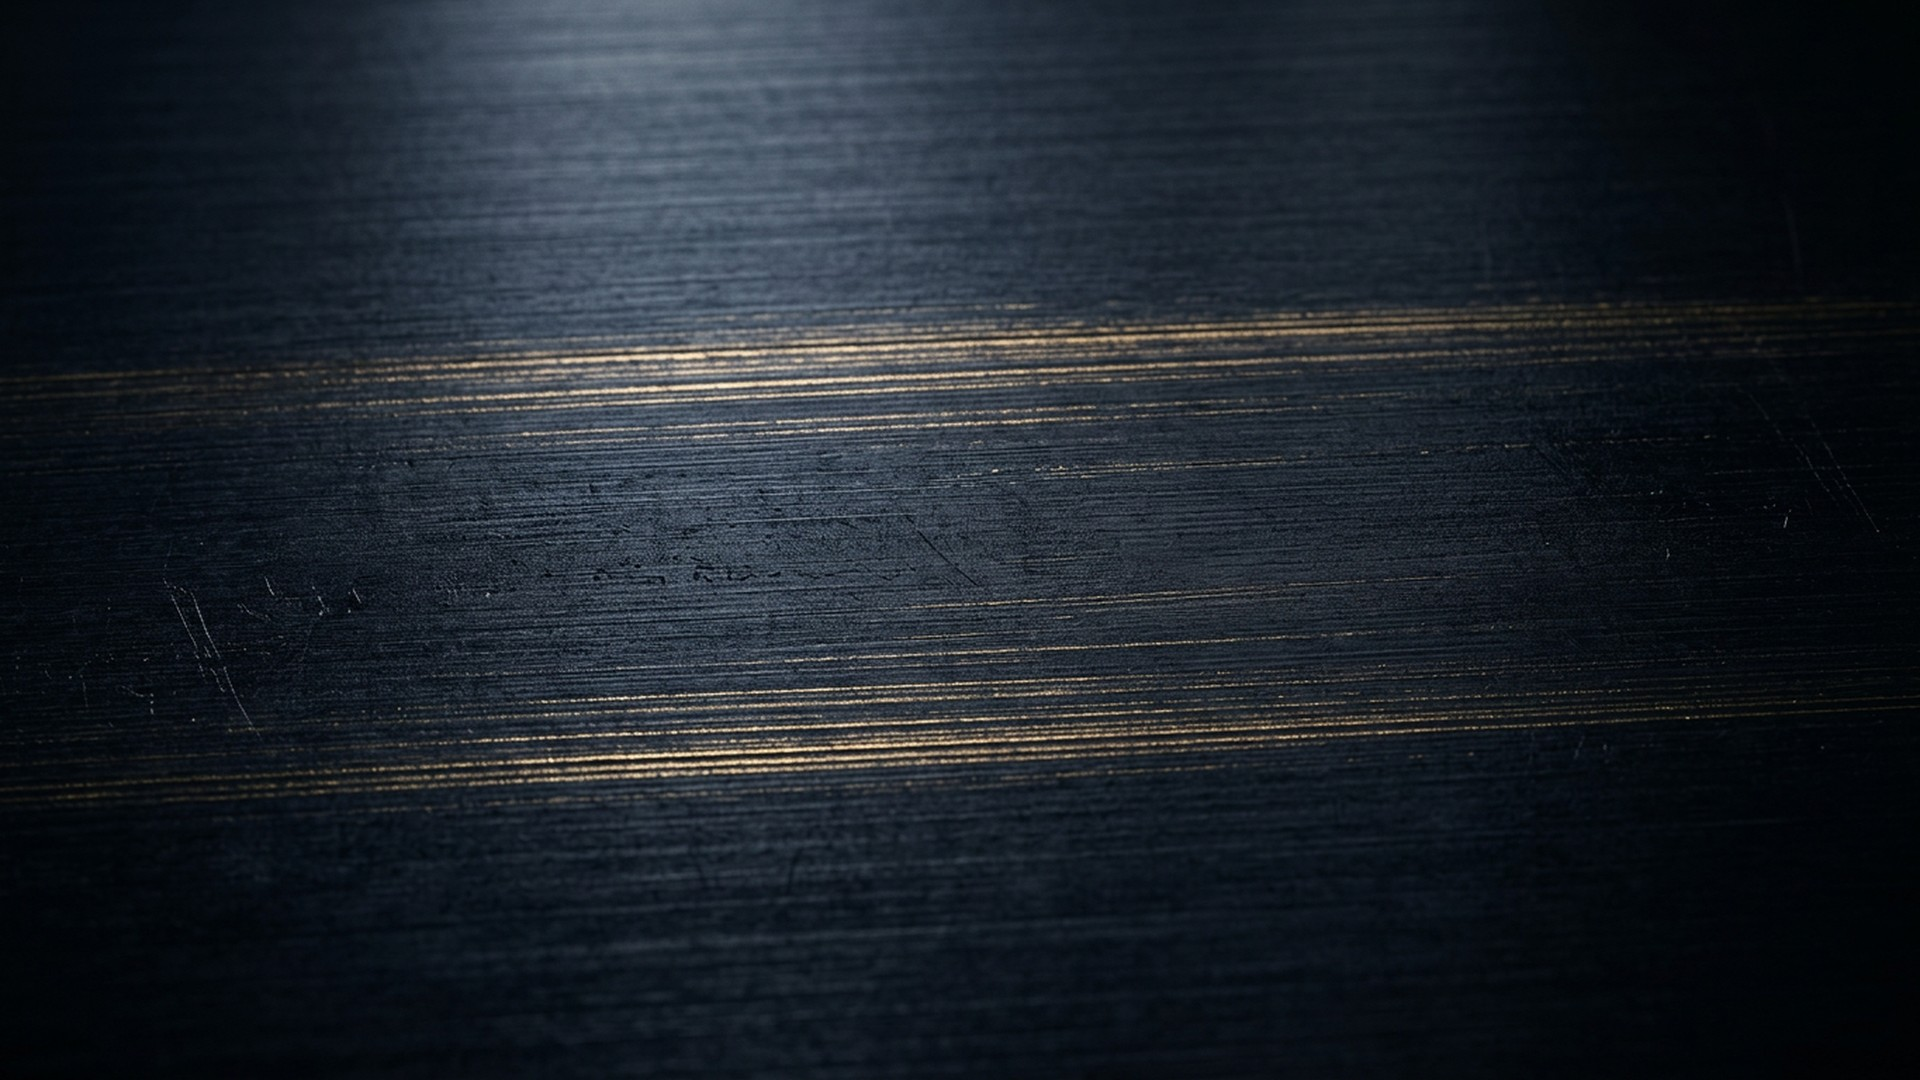
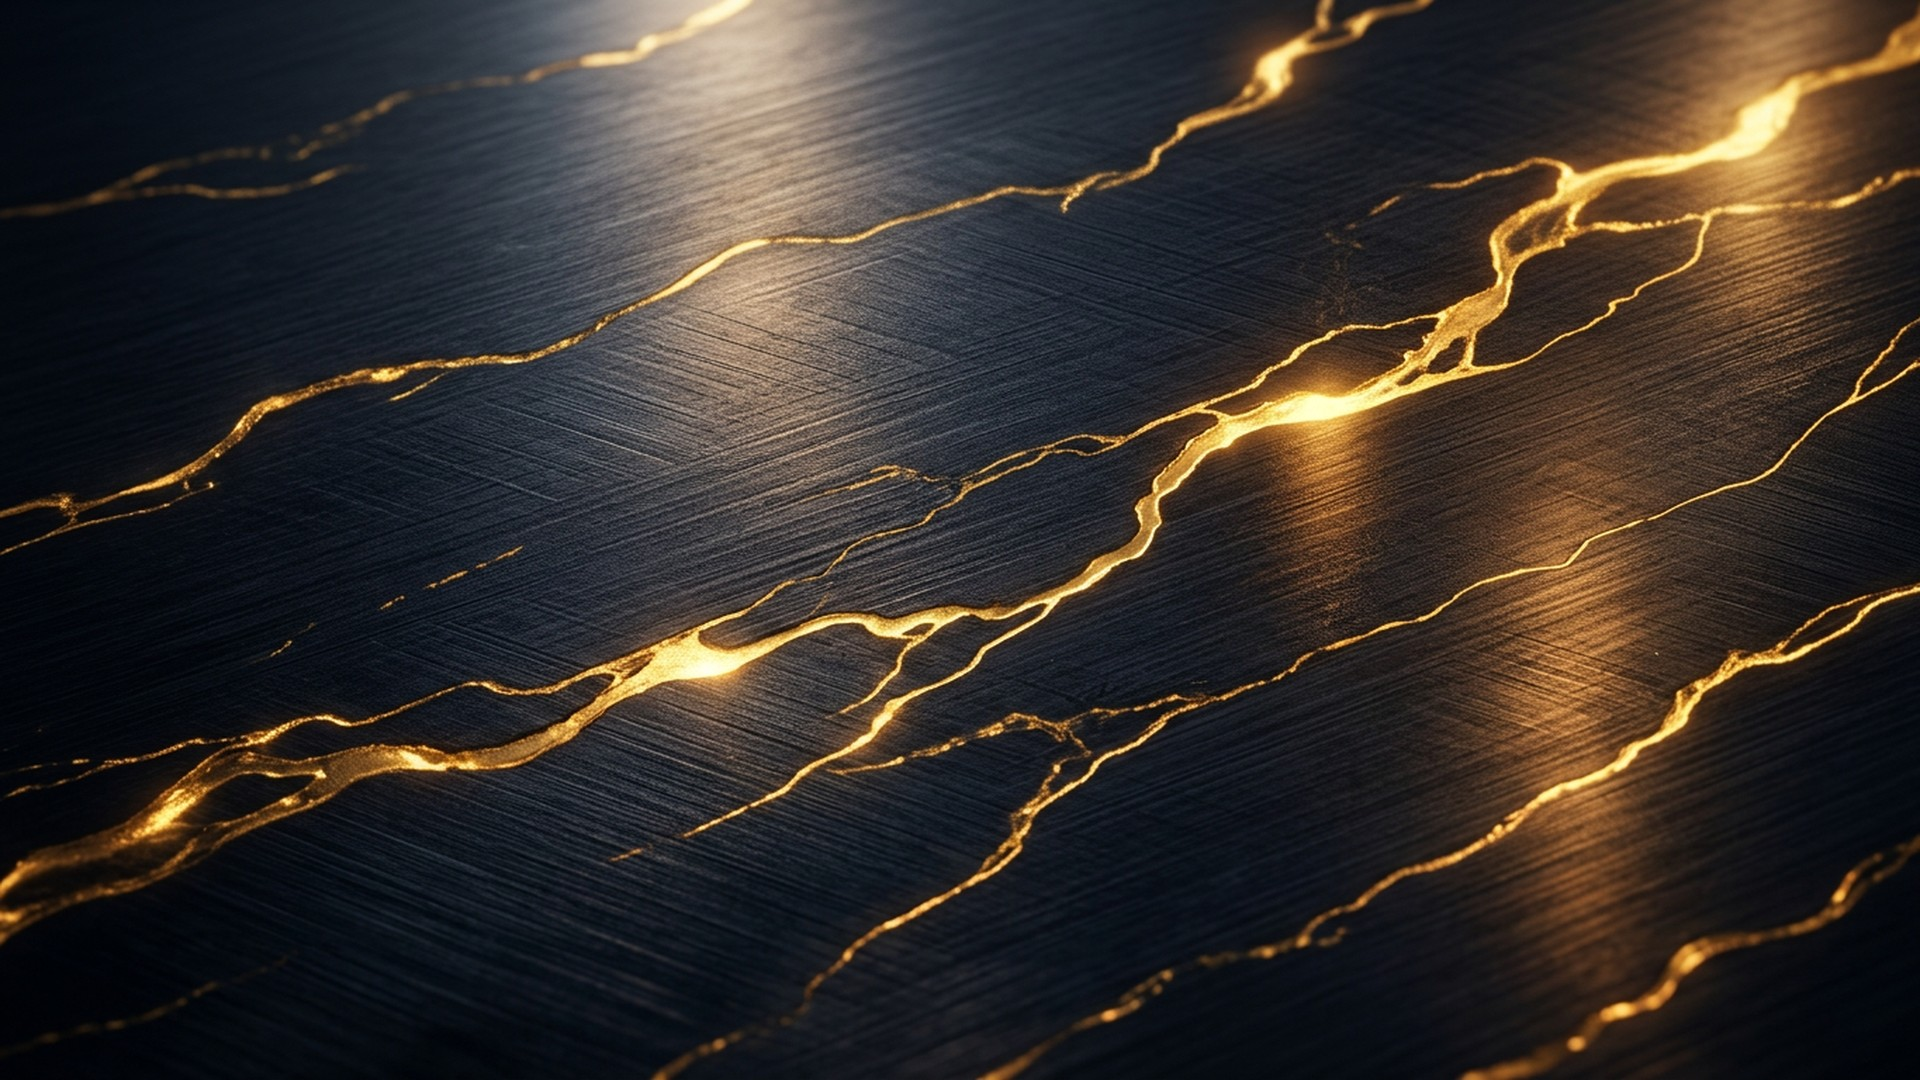
feat(assets): regenerate bg-05 — prominent golden metallic veins
- owner decision (option B): v1's golden touch was too faint
  (22 saturated-gold px vs 886-4063 for every other background)
- v2 keeps the dark brushed-metal family but adds radiant golden
  veins: 468 gold px (21x), still darkmode-friendly (69% dark)
- v1 archived to _legacy/phase2b/bg-05-v1.jpg; zero code changes —
  same filename, 1920x1080 JPG q90 + matching thumbnail

diff --git a/PHASE2B-REPORT.md b/PHASE2B-REPORT.md
@@ -1,5 +1,5 @@
 # LATCHI SOCIAL HUB — Phase 2 · Session B Final Report
-**التاريخ:** 3 أكتوبر 2026 · **الفرع:** `feature/phase-2-session-b-backgrounds` (6 التزامات فوق main=cd16ad4) · **مُدمج: ❌ بانتظار مراجعة المالك**
+**التاريخ:** 3 أكتوبر 2026 (+Rev 1: إعادة توليد bg-05) · **الفرع:** `feature/phase-2-session-b-backgrounds` (8 التزامات فوق main=cd16ad4) · **مُدمج: ❌ بانتظار مراجعة المالك**
 
 ---
 
@@ -19,7 +19,7 @@
 | 1 | `bg-02.jpg` Mesh فاخر | 1920×1080 | 160KB | ✅ داكن 74٪ + ذهبي 2568px |
 | 2 | `bg-03.jpg` جزيئات ذهبية | 1920×1080 | 279KB | ✅ داكن 87٪ + ذهبي 886px |
 | 3 | `bg-04.jpg` خطوط مضيئة | 1920×1080 | 600KB | ✅ داكن 74٪ + ذهبي 1601px |
-| 4 | `bg-05.jpg` نسيج معدني | 1920×1080 | 319KB | ⚠ داكن 83٪ لكن اللمسة الذهبية خافتة جداً (22px) |
+| 4 | `bg-05.jpg` نسيج معدني | 1920×1080 | 414KB | ✅ داكن 69٪ + عروق ذهبية 468px (أُعيد توليدها بقرار المالك — v1 كانت 22px، مؤرشفة بـ`_legacy/phase2b/`) |
 | 5 | `bg-06.jpg` موجات ضوئية | 1920×1080 | 282KB | ✅ داكن 75٪ + ذهبي 1093px |
 | 6 | `bg-07.jpg` شبكة 3D | 1920×1080 | 480KB | ✅ داكن 77٪ + ذهبي 2262px |
 | 7 | `bg-08.jpg` Bokeh | 1920×1080 | 243KB | ✅ داكن 63٪ + ذهبي 1578px |
@@ -99,7 +99,7 @@
 - Push: ✅ · **Merge: ❌ بانتظار مراجعة المالك** · لا وسم · لا Release
 
 ## Known Issues
-1. **bg-05 (نسيج معدني)**: اللمسة الذهبية أخفت من المقصود (22 بكسل ذهبي مشبع فقط — النسيج داكن وفاخر لكن «ذهبيته» شبه غائبة). مرشحة لإعادة توليد بجلسة قادمة إن أردت.
+1. ~~bg-05~~ **حُلّت**: أُعيد توليدها بعد تقرير Session B بعروق ذهبية بارزة (22→468 بكسل ذهبي، تحسّن 21×) — v1 مؤرشفة بـ`_legacy/phase2b/bg-05-v1.jpg`؛ لا تغيير كود، نفس 1920×1080 q90.
 2. لا رؤية لدى الـ Agent: التقييم لوني/بنائي برمجي — **المراجعة البصرية النهائية لك** (ورقة المعاينة `phase2b-review-sheet.png`).
 3. حجم banner.png 665KB (PNG بلا شفافية — طبيعة AI).
 4. بعض الخلفيات أصغر من نطاق 500KB-2MB (q90 بمحتوى ناعم) — الجودة بالمواصفات.
